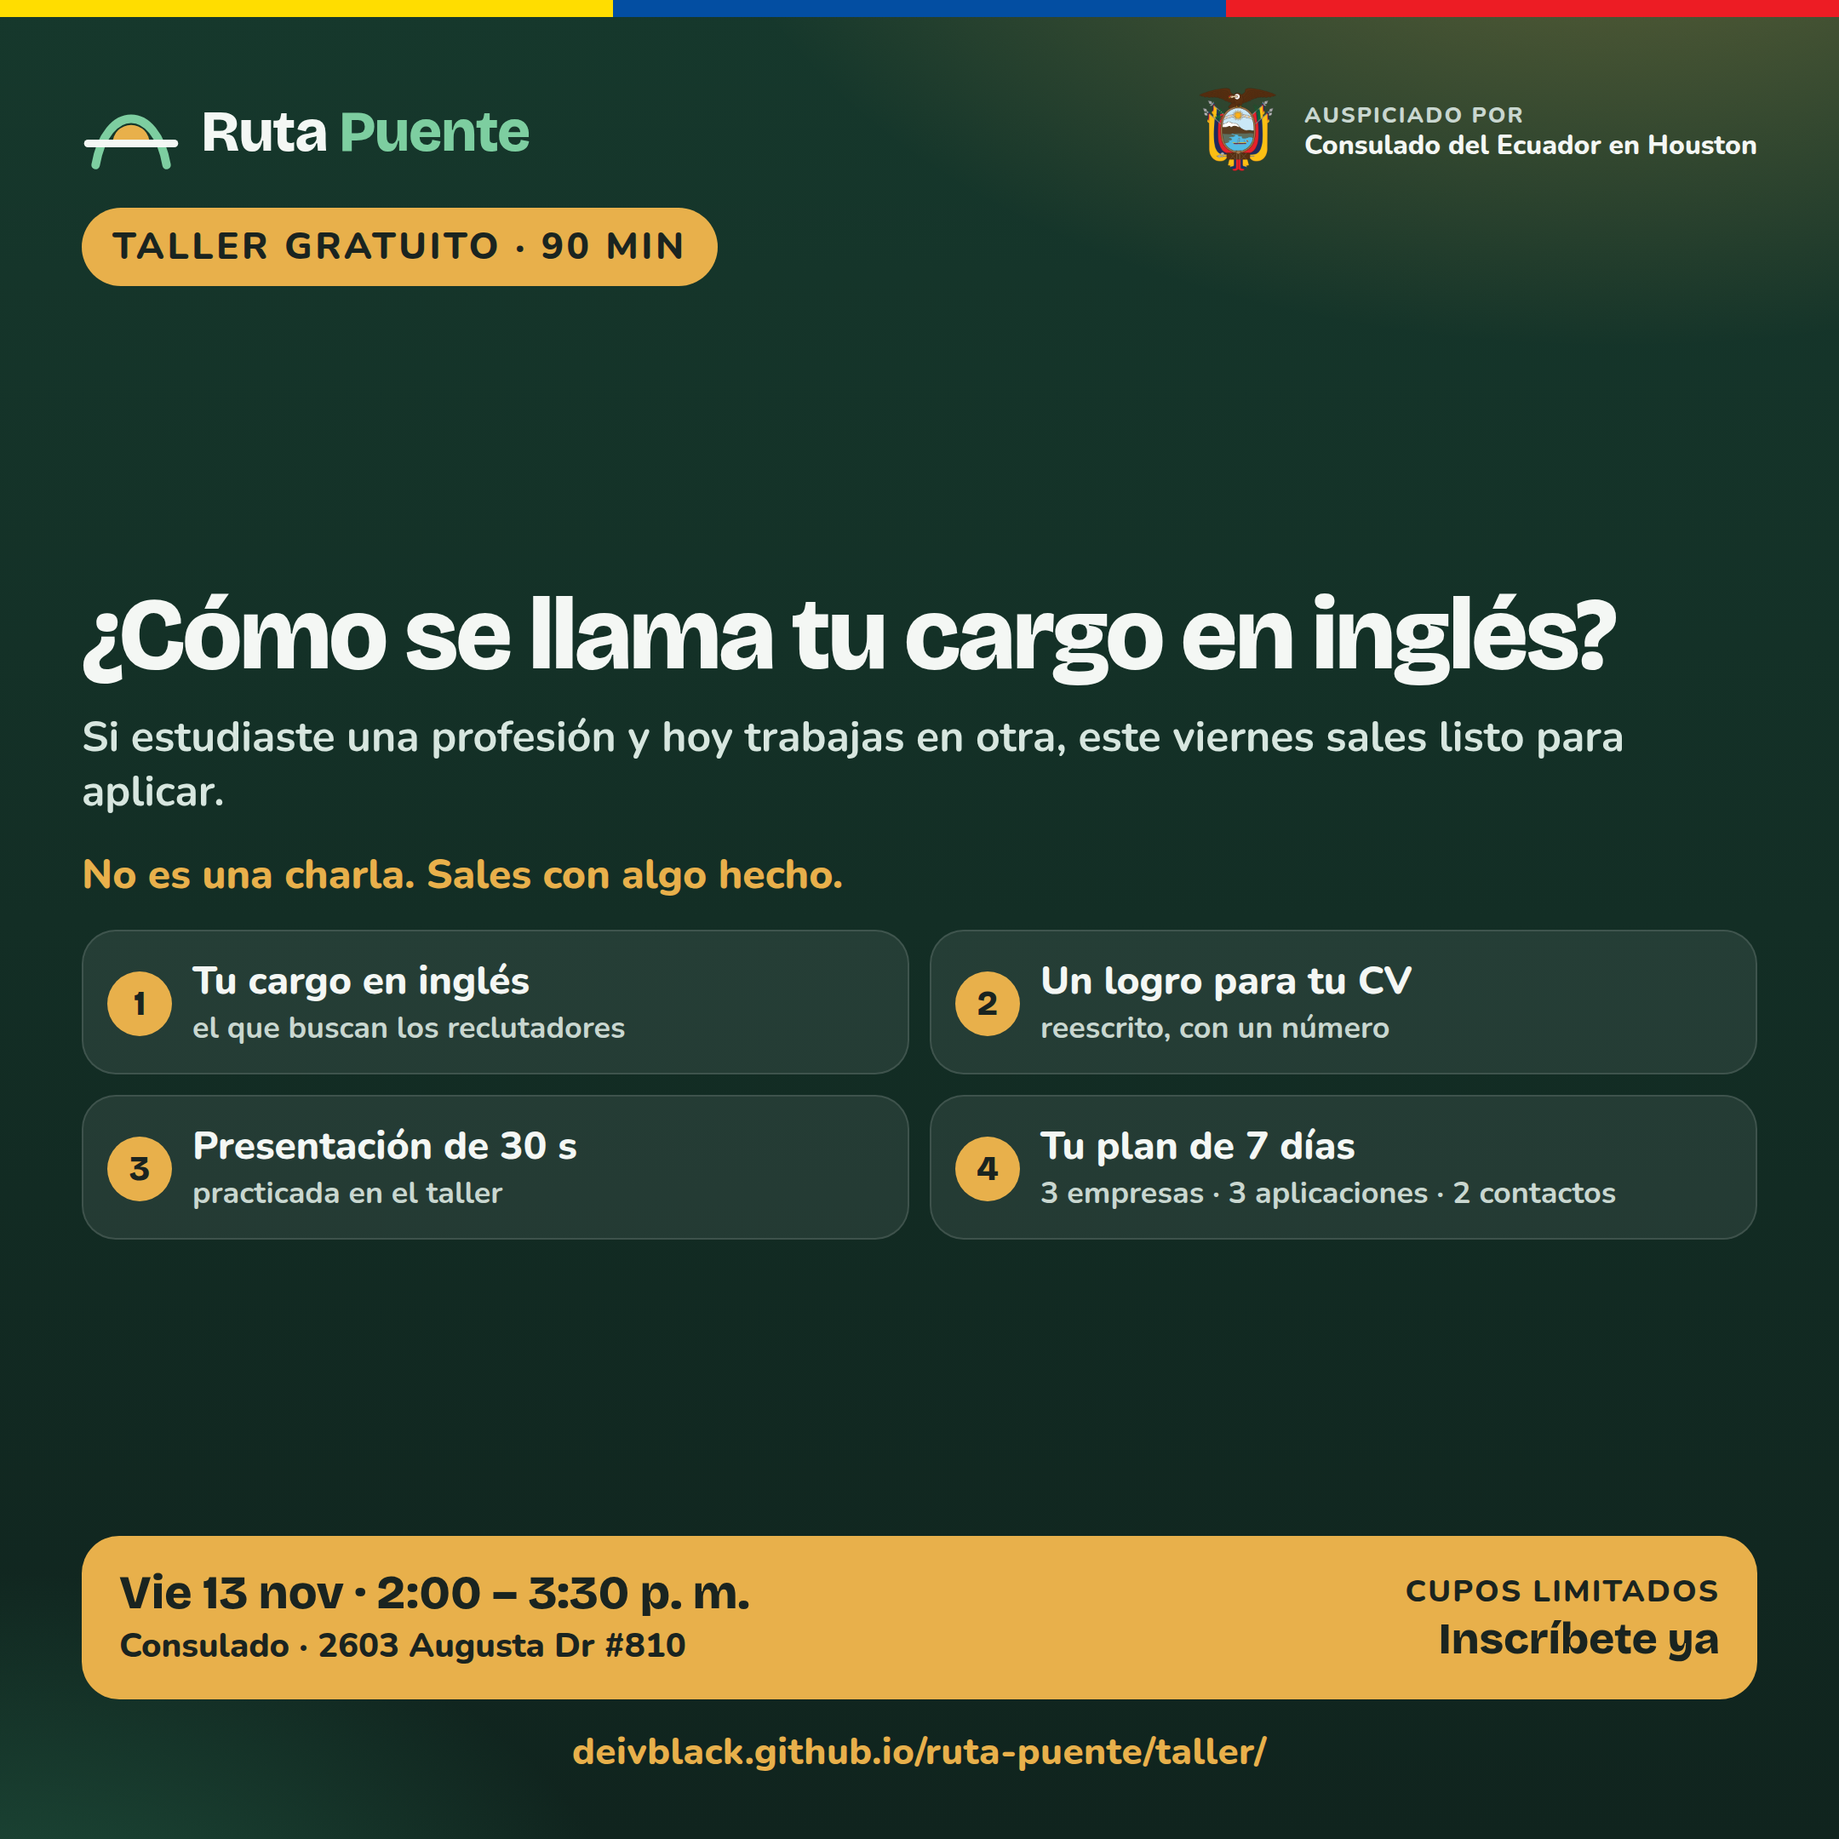
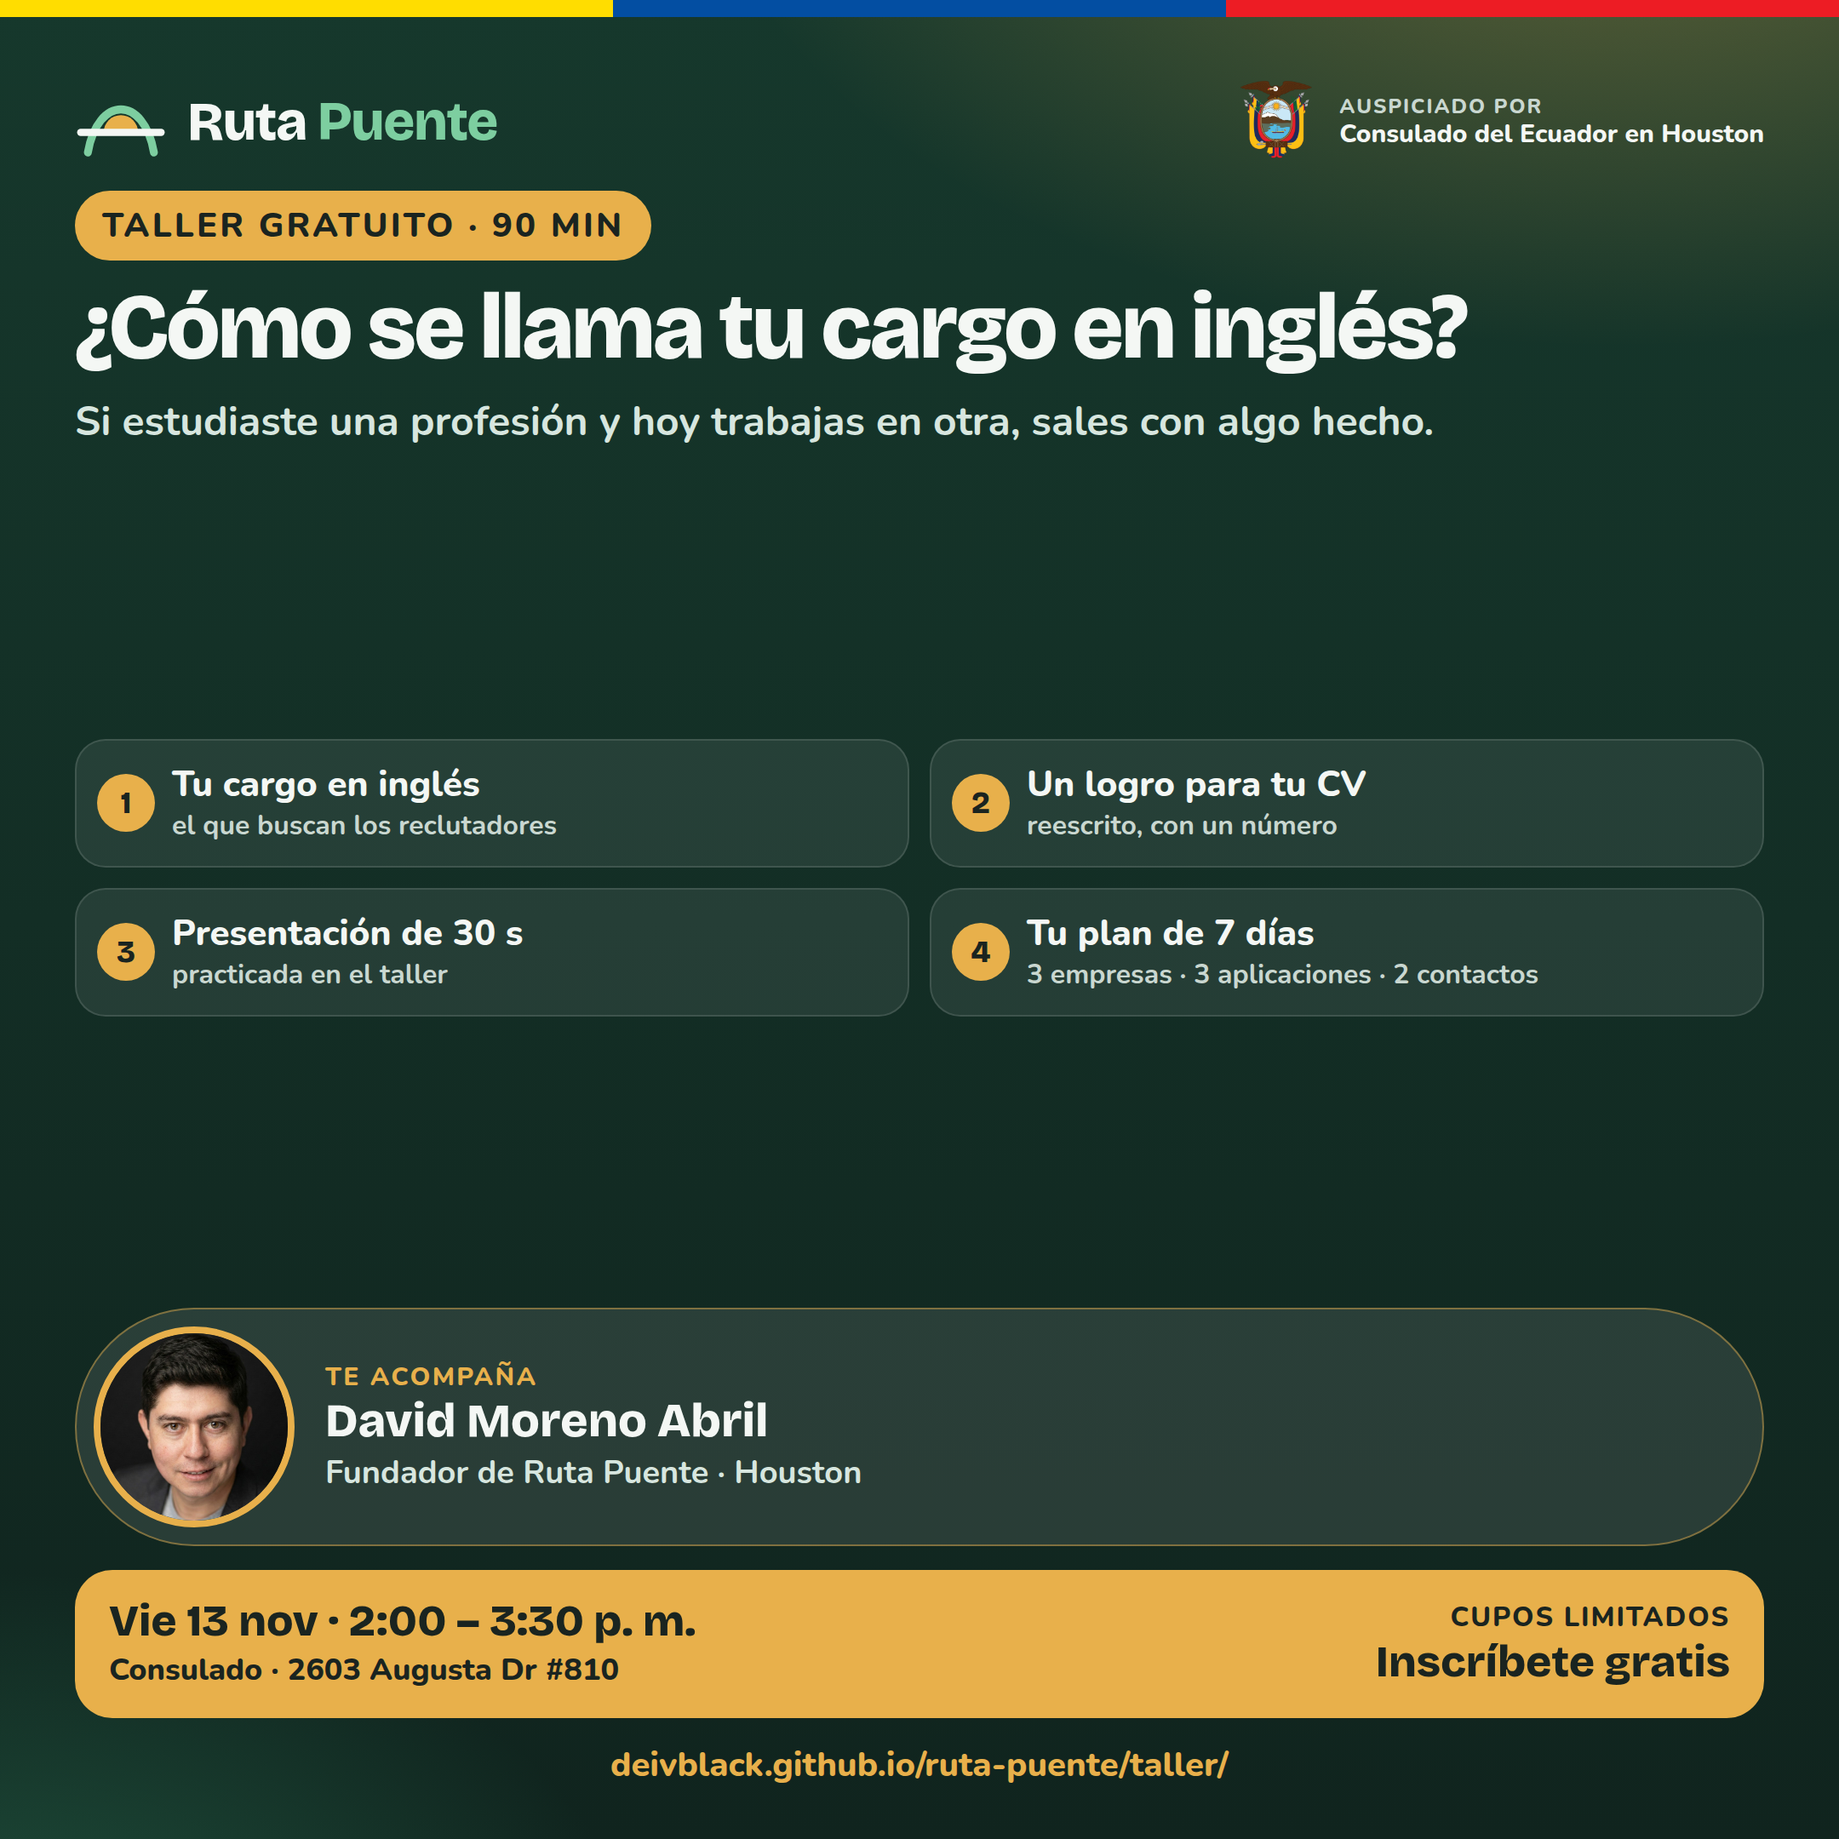
Agrega la foto de David a las artes de WhatsApp.
El taller se ve respaldado por una persona: foto circular, nombre y cargo. También se apretó el texto y el botón ahora dice Inscríbete gratis.

diff --git a/taller/artes/cuadrado.html b/taller/artes/cuadrado.html
@@ -7,7 +7,6 @@
 <link rel="preconnect" href="https://fonts.gstatic.com" crossorigin>
 <link rel="stylesheet" href="https://fonts.googleapis.com/css2?family=Bricolage+Grotesque:opsz,wght@12..96,800&family=Nunito:wght@700;800&display=swap">
 <style>
-@page { size: 1080px 1080px; margin: 0; }
 html,body{margin:0;padding:0;background:#10241e}
 *{box-sizing:border-box;-webkit-print-color-adjust:exact;print-color-adjust:exact}
 .pieza{
@@ -18,9 +17,10 @@ html,body{margin:0;padding:0;background:#10241e}
     linear-gradient(180deg,#16382c 0%, #10241e 100%);
   color:#f4f7f4;
   font-family:"Nunito",system-ui,sans-serif;
-  padding:40px 48px 36px;
-  display:flex;flex-direction:column;gap:16px;
+  padding:36px 44px 30px;
+  display:flex;flex-direction:column;justify-content:space-between;gap:18px;
 }
+.top,.pie{display:flex;flex-direction:column;gap:14px}
 .tricolor{position:absolute;left:0;right:0;top:0;height:10px;display:flex}
 .tricolor i{flex:1;display:block}
 .tricolor i:nth-child(1){background:#FFDD00}
@@ -28,57 +28,66 @@ html,body{margin:0;padding:0;background:#10241e}
 .tricolor i:nth-child(3){background:#ED1C24}
 .head{display:flex;align-items:center;justify-content:space-between;gap:16px;padding-top:8px}
 .brand{display:flex;align-items:center;gap:12px}
-.brand svg{width:58px;height:58px}
-.brand b{font-family:"Bricolage Grotesque",system-ui,sans-serif;font-size:34px;font-weight:800;letter-spacing:-.02em}
+.brand svg{width:54px;height:54px}
+.brand b{font-family:"Bricolage Grotesque",system-ui,sans-serif;font-size:32px;font-weight:800;letter-spacing:-.02em}
 .brand b span{color:#7dcea0}
 .cons{display:flex;align-items:center;gap:10px;max-width:340px;text-align:left}
-.cons img{width:58px;height:58px;object-fit:contain}
-.cons small{display:block;font-size:13px;letter-spacing:.08em;text-transform:uppercase;color:#c9d7d0;font-weight:800}
-.cons strong{display:block;font-size:16px;line-height:1.15;font-weight:800}
+.cons img{width:54px;height:54px;object-fit:contain}
+.cons small{display:block;font-size:12px;letter-spacing:.08em;text-transform:uppercase;color:#c9d7d0;font-weight:800}
+.cons strong{display:block;font-size:15px;line-height:1.15;font-weight:800}
 .pill{
   align-self:flex-start;background:#e8b04b;color:#1a2420;
-  font-weight:800;font-size:22px;letter-spacing:.08em;
-  padding:8px 18px;border-radius:999px;
+  font-weight:800;font-size:20px;letter-spacing:.08em;
+  padding:7px 16px;border-radius:999px;
 }
-.medio{flex:1;display:flex;flex-direction:column;justify-content:center;gap:16px}
 h1{
   font-family:"Bricolage Grotesque",system-ui,sans-serif;
-  font-size:60px;line-height:.95;margin:2px 0 0;font-weight:800;
+  font-size:54px;line-height:.95;margin:0;font-weight:800;
   text-wrap:balance;letter-spacing:-.03em;
 }
-.lead{font-size:25px;line-height:1.28;font-weight:700;color:#d7e6df;margin:0;max-width:960px}
-.punch{font-size:24px;font-weight:800;color:#e8b04b;margin:0}
-.bens{
-  display:grid;grid-template-columns:1fr 1fr;gap:12px;
-}
+.lead{font-size:24px;line-height:1.28;font-weight:700;color:#d7e6df;margin:0}
+.bens{display:grid;grid-template-columns:1fr 1fr;gap:12px}
 .bens div{
   background:rgba(255,255,255,.08);border:1px solid rgba(255,255,255,.12);
-  border-radius:20px;padding:16px 16px 16px 14px;
-  display:flex;gap:12px;align-items:center;
-  font-size:23px;font-weight:800;line-height:1.15;
+  border-radius:18px;padding:14px 14px 14px 12px;
+  display:flex;gap:10px;align-items:center;
+  font-size:21px;font-weight:800;line-height:1.15;
 }
-.bens em{display:block;font-style:normal;font-size:18px;font-weight:700;color:#c9d7d0;margin-top:4px}
+.bens em{display:block;font-style:normal;font-size:16px;font-weight:700;color:#c9d7d0;margin-top:3px}
 .bens .n{
-  flex:0 0 38px;height:38px;border-radius:50%;
+  flex:0 0 34px;height:34px;border-radius:50%;
   background:#e8b04b;color:#1a2420;
   display:grid;place-items:center;
-  font-family:"Bricolage Grotesque",system-ui,sans-serif;font-size:20px;margin-top:2px;
+  font-family:"Bricolage Grotesque",system-ui,sans-serif;font-size:18px;
 }
+.me{
+  display:flex;align-items:center;gap:18px;
+  background:rgba(255,255,255,.1);border:1px solid rgba(232,176,75,.45);
+  border-radius:999px;padding:10px 24px 10px 10px;
+}
+.me img{
+  width:118px;height:118px;border-radius:50%;object-fit:cover;
+  border:4px solid #e8b04b;flex:0 0 118px;
+}
+.me small{display:block;font-size:15px;letter-spacing:.08em;text-transform:uppercase;color:#e8b04b;font-weight:800}
+.me b{display:block;font-family:"Bricolage Grotesque",system-ui,sans-serif;font-size:28px;line-height:1.1}
+.me span{display:block;font-size:19px;font-weight:700;color:#d7e6df;margin-top:2px}
 .barra{
   background:#e8b04b;color:#1a2420;border-radius:22px;
-  padding:18px 22px;display:flex;align-items:center;justify-content:space-between;gap:16px;
+  padding:16px 20px;display:flex;align-items:center;justify-content:space-between;gap:16px;
 }
-.barra b{display:block;font-family:"Bricolage Grotesque",system-ui,sans-serif;font-size:28px;line-height:1.1}
-.barra span{display:block;font-size:20px;font-weight:800;margin-top:2px}
+.barra b{display:block;font-family:"Bricolage Grotesque",system-ui,sans-serif;font-size:26px;line-height:1.1}
+.barra span{display:block;font-size:18px;font-weight:800;margin-top:2px}
 .cta{text-align:right;font-weight:800}
-.cta em{display:block;font-style:normal;font-size:18px;letter-spacing:.06em}
+.cta em{display:block;font-style:normal;font-size:16px;letter-spacing:.06em}
 .cta strong{display:block;font-family:"Bricolage Grotesque",system-ui,sans-serif;font-size:26px}
-.url{text-align:center;font-size:22px;font-weight:800;color:#e8b04b;letter-spacing:.01em}
+.url{text-align:center;font-size:20px;font-weight:800;color:#e8b04b}
 </style>
 </head>
 <body>
 <div class="pieza">
   <div class="tricolor" aria-hidden="true"><i></i><i></i><i></i></div>
+  <div class="top">
   <div class="head">
     <div class="brand">
       <svg viewBox="0 0 64 64" aria-hidden="true"><path d="M20 40a12 12 0 0 1 24 0Z" fill="#E8B04B"/><path d="M9 54 C 16 14, 48 14, 55 54" fill="none" stroke="#7dcea0" stroke-width="5.5" stroke-linecap="round"/><path d="M4 40h56" stroke="#f4f7f4" stroke-width="5" stroke-linecap="round"/></svg>
@@ -93,16 +102,23 @@ h1{
     </div>
   </div>
   <span class="pill">TALLER GRATUITO · 90 MIN</span>
-  <div class="medio">
   <h1>¿Cómo se llama tu cargo en inglés?</h1>
-  <p class="lead">Si estudiaste una profesión y hoy trabajas en otra, este viernes sales listo para aplicar.</p>
-  <p class="punch">No es una charla. Sales con algo hecho.</p>
+  <p class="lead">Si estudiaste una profesión y hoy trabajas en otra, sales con algo hecho.</p>
+  </div>
   <div class="bens">
     <div><span class="n">1</span><span>Tu cargo en inglés<em>el que buscan los reclutadores</em></span></div>
     <div><span class="n">2</span><span>Un logro para tu CV<em>reescrito, con un número</em></span></div>
     <div><span class="n">3</span><span>Presentación de 30 s<em>practicada en el taller</em></span></div>
     <div><span class="n">4</span><span>Tu plan de 7 días<em>3 empresas · 3 aplicaciones · 2 contactos</em></span></div>
   </div>
+  <div class="pie">
+  <div class="me">
+    <img src="david.jpg" alt="David Moreno Abril">
+    <div>
+      <small>Te acompaña</small>
+      <b>David Moreno Abril</b>
+      <span>Fundador de Ruta Puente · Houston</span>
+    </div>
   </div>
   <div class="barra">
     <div>
@@ -111,10 +127,11 @@ h1{
     </div>
     <div class="cta">
       <em>CUPOS LIMITADOS</em>
-      <strong>Inscríbete ya</strong>
+      <strong>Inscríbete gratis</strong>
     </div>
   </div>
   <div class="url">deivblack.github.io/ruta-puente/taller/</div>
+  </div>
 </div>
 </body>
 </html>

diff --git a/taller/artes/estado.html b/taller/artes/estado.html
@@ -17,8 +17,8 @@ html,body{margin:0;padding:0;background:#10241e}
     linear-gradient(180deg,#1a4638 0%, #10241e 48%, #0d1c18 100%);
   color:#f4f7f4;
   font-family:"Nunito",system-ui,sans-serif;
-  padding:56px 56px 48px;
-  display:flex;flex-direction:column;gap:22px;
+  padding:52px 52px 44px;
+  display:flex;flex-direction:column;gap:18px;
 }
 .tricolor{position:absolute;left:0;right:0;top:0;height:12px;display:flex}
 .tricolor i{flex:1}
@@ -27,52 +27,63 @@ html,body{margin:0;padding:0;background:#10241e}
 .tricolor i:nth-child(3){background:#ED1C24}
 .head{display:flex;align-items:center;justify-content:space-between;gap:16px;padding-top:12px}
 .brand{display:flex;align-items:center;gap:12px}
-.brand svg{width:64px;height:64px}
-.brand b{font-family:"Bricolage Grotesque",system-ui,sans-serif;font-size:36px;font-weight:800}
+.brand svg{width:58px;height:58px}
+.brand b{font-family:"Bricolage Grotesque",system-ui,sans-serif;font-size:34px;font-weight:800}
 .brand b span{color:#7dcea0}
 .cons{display:flex;align-items:center;gap:12px;max-width:380px}
-.cons img{width:70px;height:70px;object-fit:contain}
-.cons small{display:block;font-size:14px;letter-spacing:.08em;text-transform:uppercase;color:#c9d7d0;font-weight:800}
-.cons strong{display:block;font-size:18px;line-height:1.15;font-weight:800}
+.cons img{width:64px;height:64px;object-fit:contain}
+.cons small{display:block;font-size:13px;letter-spacing:.08em;text-transform:uppercase;color:#c9d7d0;font-weight:800}
+.cons strong{display:block;font-size:17px;line-height:1.15;font-weight:800}
 .pill{
   align-self:flex-start;background:#e8b04b;color:#1a2420;
-  font-weight:800;font-size:24px;letter-spacing:.08em;
-  padding:10px 20px;border-radius:999px;
+  font-weight:800;font-size:22px;letter-spacing:.08em;
+  padding:9px 18px;border-radius:999px;
 }
 h1{
   font-family:"Bricolage Grotesque",system-ui,sans-serif;
-  font-size:76px;line-height:.95;margin:4px 0 0;font-weight:800;letter-spacing:-.03em;
+  font-size:70px;line-height:.95;margin:0;font-weight:800;letter-spacing:-.03em;
 }
-.lead{font-size:30px;line-height:1.28;font-weight:700;color:#d7e6df;margin:0}
-.bens{display:flex;flex-direction:column;gap:14px}
+.lead{font-size:28px;line-height:1.28;font-weight:700;color:#d7e6df;margin:0}
+.bens{display:flex;flex-direction:column;gap:12px}
 .bens div{
   background:rgba(255,255,255,.08);border:1px solid rgba(255,255,255,.12);
-  border-radius:20px;padding:18px 20px;
-  display:flex;gap:16px;align-items:center;
-  font-size:30px;font-weight:800;line-height:1.2;
+  border-radius:18px;padding:16px 18px;
+  display:flex;gap:14px;align-items:center;
+  font-size:28px;font-weight:800;line-height:1.2;
 }
 .bens .n{
-  flex:0 0 44px;height:44px;border-radius:50%;
+  flex:0 0 42px;height:42px;border-radius:50%;
   background:#e8b04b;color:#1a2420;
   display:grid;place-items:center;
-  font-family:"Bricolage Grotesque",system-ui,sans-serif;font-size:24px;
+  font-family:"Bricolage Grotesque",system-ui,sans-serif;font-size:22px;
 }
-.bens em{display:block;font-style:normal;font-size:20px;font-weight:700;color:#c9d7d0;margin-top:2px}
+.bens em{display:block;font-style:normal;font-size:18px;font-weight:700;color:#c9d7d0;margin-top:2px}
 .dato{
   background:rgba(232,176,75,.14);border:2px solid #e8b04b;border-radius:24px;
-  padding:22px 24px;
+  padding:20px 22px;
 }
-.dato b{display:block;font-family:"Bricolage Grotesque",system-ui,sans-serif;font-size:34px;line-height:1.15}
-.dato span{display:block;font-size:24px;font-weight:800;margin-top:8px;color:#e8d9b0}
-.punch{font-size:32px;font-weight:800;color:#e8b04b;margin:8px 0 0;line-height:1.25}
+.dato b{display:block;font-family:"Bricolage Grotesque",system-ui,sans-serif;font-size:32px;line-height:1.15}
+.dato span{display:block;font-size:22px;font-weight:800;margin-top:6px;color:#e8d9b0}
+.me{
+  display:flex;align-items:center;gap:18px;
+  background:rgba(255,255,255,.1);border:1px solid rgba(232,176,75,.45);
+  border-radius:999px;padding:10px 24px 10px 10px;
+}
+.me img{
+  width:156px;height:156px;border-radius:50%;object-fit:cover;
+  border:4px solid #e8b04b;flex:0 0 156px;
+}
+.me small{display:block;font-size:16px;letter-spacing:.08em;text-transform:uppercase;color:#e8b04b;font-weight:800}
+.me b{display:block;font-family:"Bricolage Grotesque",system-ui,sans-serif;font-size:32px;line-height:1.1;margin-top:2px}
+.me span{display:block;font-size:22px;font-weight:700;color:#d7e6df;margin-top:4px}
 .foot{
-  margin-top:auto;display:flex;align-items:center;gap:24px;
-  background:#f4f7f4;color:#1a2420;border-radius:28px;padding:22px;
+  margin-top:auto;display:flex;align-items:center;gap:22px;
+  background:#f4f7f4;color:#1a2420;border-radius:28px;padding:20px;
 }
-.foot img{width:210px;height:210px;background:#fff;border-radius:16px}
-.foot strong{display:block;font-family:"Bricolage Grotesque",system-ui,sans-serif;font-size:36px;line-height:1.1}
-.foot span{display:block;font-size:22px;font-weight:800;margin-top:8px;word-break:break-all}
-.foot em{display:block;font-style:normal;margin-top:10px;font-size:22px;font-weight:800;color:#2e7d5b}
+.foot img{width:200px;height:200px;background:#fff;border-radius:16px}
+.foot strong{display:block;font-family:"Bricolage Grotesque",system-ui,sans-serif;font-size:34px;line-height:1.1}
+.foot span{display:block;font-size:20px;font-weight:800;margin-top:8px;word-break:break-all}
+.foot em{display:block;font-style:normal;margin-top:8px;font-size:22px;font-weight:800;color:#2e7d5b}
 </style>
 </head>
 <body>
@@ -104,11 +115,18 @@ h1{
     <b>Viernes 13 de noviembre · 2:00 – 3:30 p. m.</b>
     <span>Consulado General del Ecuador · 2603 Augusta Dr #810, Houston</span>
   </div>
-  <p class="punch">No es una charla. Sales con algo hecho.</p>
-  <div class="foot">
-    <img src="qr-whatsapp.png" width="210" height="210" alt="Código QR para inscribirse">
+  <div class="me">
+    <img src="david.jpg" alt="David Moreno Abril">
     <div>
-      <strong>Inscríbete. Cupos limitados.</strong>
+      <small>Te acompaña</small>
+      <b>David Moreno Abril</b>
+      <span>Fundador de Ruta Puente · Houston</span>
+    </div>
+  </div>
+  <div class="foot">
+    <img src="qr-whatsapp.png" width="200" height="200" alt="Código QR para inscribirse">
+    <div>
+      <strong>Inscríbete gratis. Cupos limitados.</strong>
       <span>deivblack.github.io/ruta-puente/taller/</span>
       <em>Preguntas: 832-253-3555</em>
     </div>
